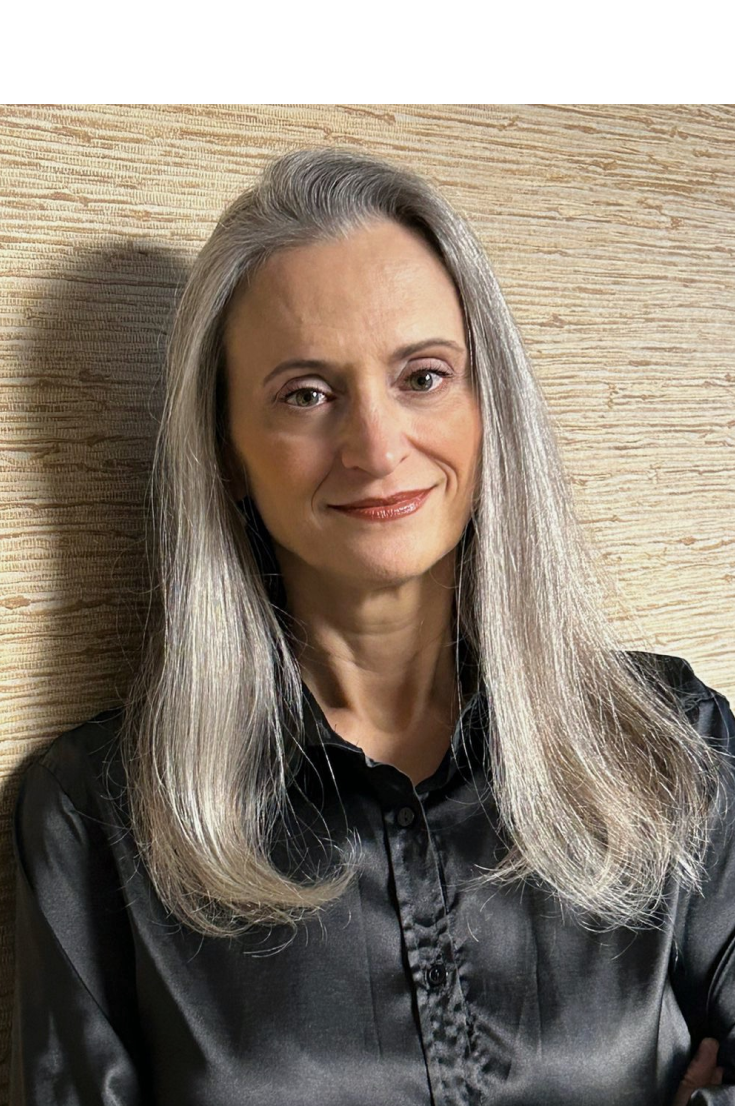
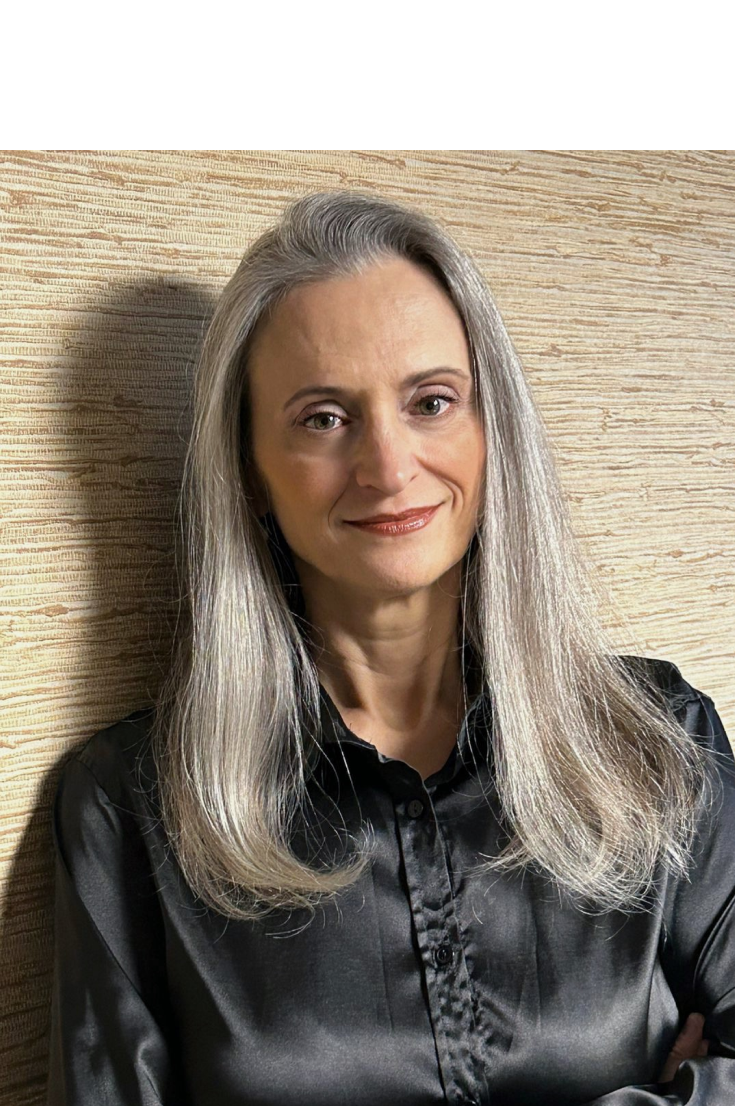
Team Imgs Update

diff --git a/src/content-list/team/english.ts b/src/content-list/team/english.ts
@@ -61,7 +61,7 @@ export const Team_Data_EN = [
         oab: "OAB/PR 123456",
         oabLink: "https://www.oabpr.org.br/",
         bio: ["", "", ""],
-        image: "/team/equipe_susan_2025.png",
+        image: "/team/equipe_susan_2025_B.png",
     },
     {
         name: "Amanda",

diff --git a/src/content-list/team/portuguese.ts b/src/content-list/team/portuguese.ts
@@ -61,7 +61,7 @@ export const Team_Data_PT = [
         oab: "OAB/PR 123456",
         oabLink: "https://www.oabpr.org.br/",
         bio: ["", "", ""],
-        image: "/team/equipe_susan_2025.png",
+        image: "/team/equipe_susan_2025_B.png",
     },
     {
         name: "Amanda",

diff --git a/src/content-list/team/spanish.ts b/src/content-list/team/spanish.ts
@@ -61,7 +61,7 @@ export const Team_Data_ES = [
         oab: "OAB/PR 123456",
         oabLink: "https://www.oabpr.org.br/",
         bio: ["", "", ""],
-        image: "/team/equipe_susan_2025.png",
+        image: "/team/equipe_susan_2025_B.png",
     },
     {
         name: "Amanda",
